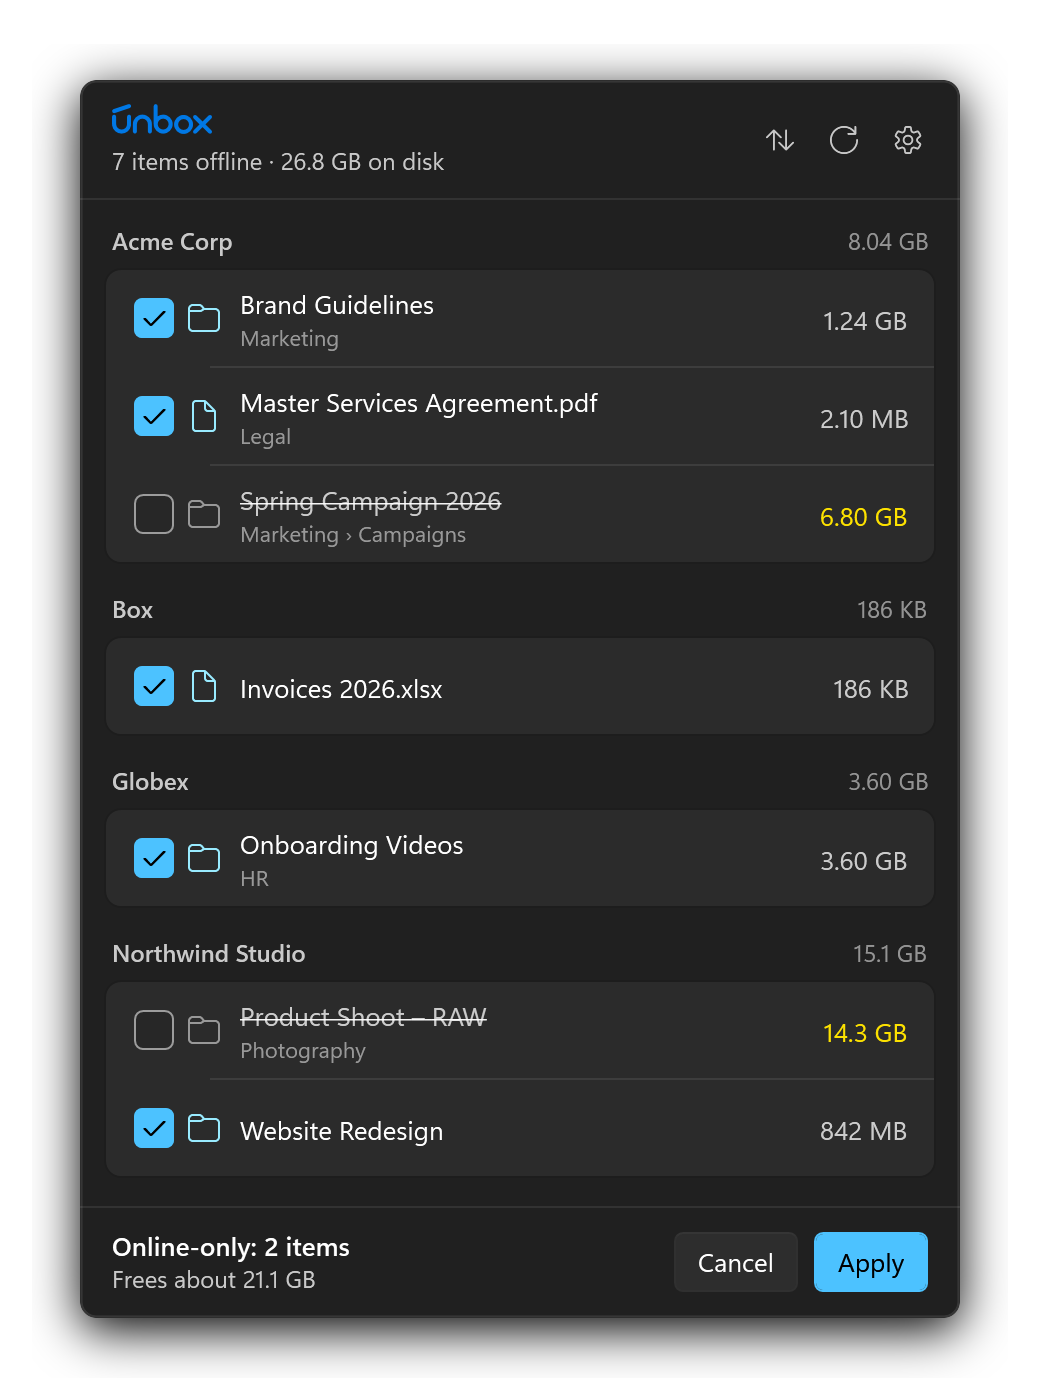
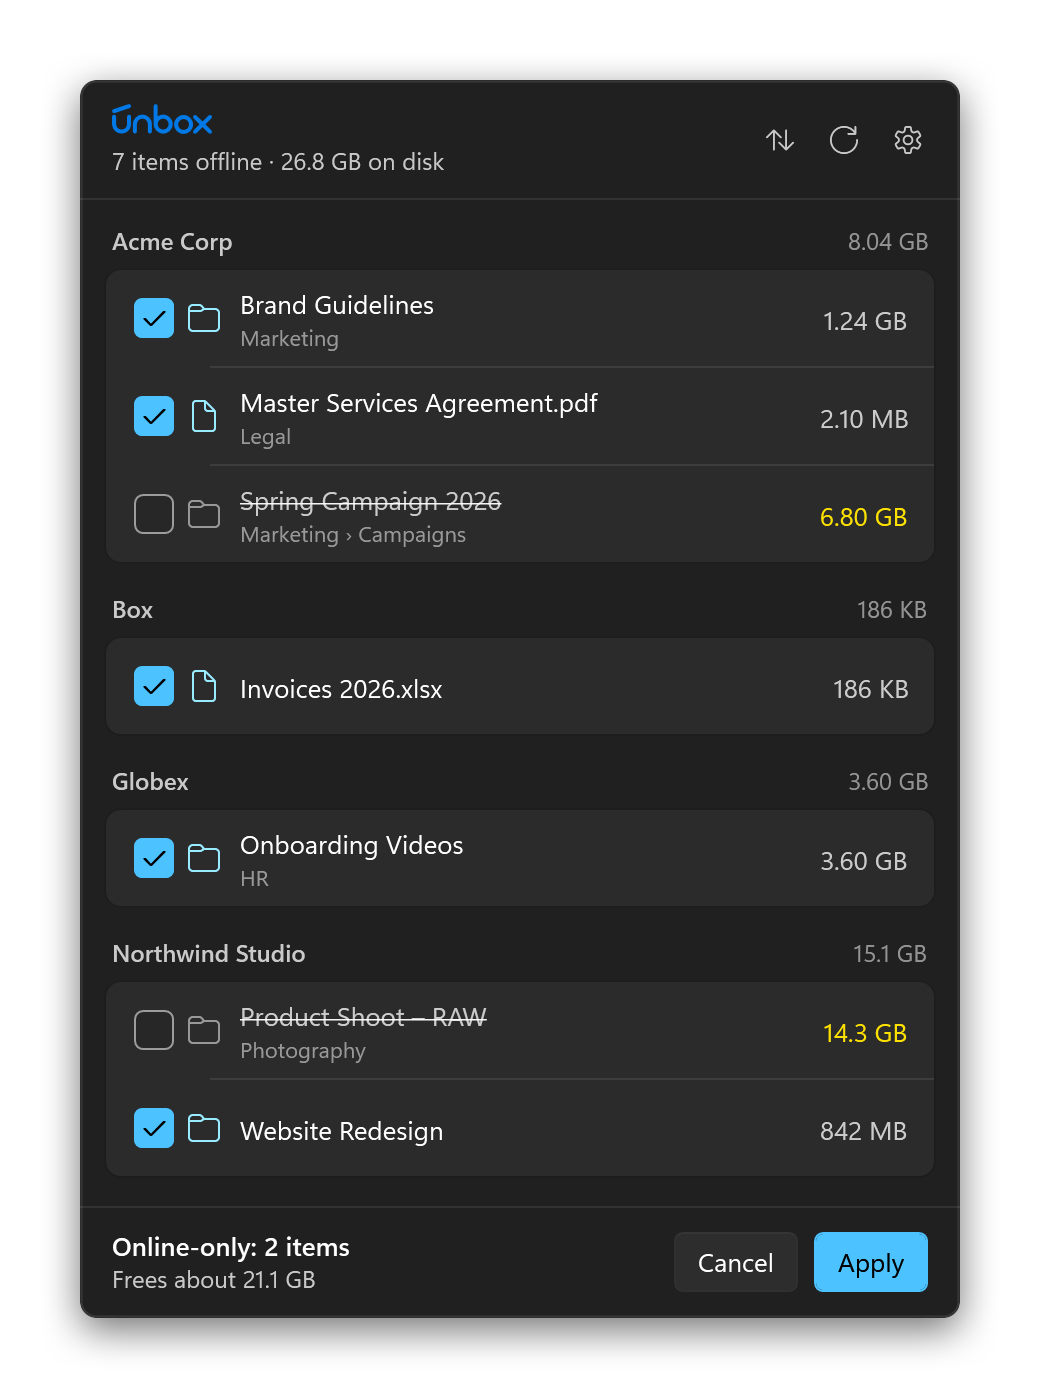
Soft shadow on all screenshots; drop SignPath signing for now
- scripts/screenshot-shadow.swift adds the earlier, soft popover shadow to
  the macOS and Windows screenshots alike.
- The SignPath Foundation integration (workflow steps, .signpath/, the code
  signing policy in the README) is removed until signing is revisited; it can
  be restored from commit c201943.

Changed region(s): [[0.0308, 0.0615, 0.9538, 0.9843], [0.0923, 0.0308, 0.9231, 0.0615]]

diff --git a/scripts/screenshot-shadow.swift b/scripts/screenshot-shadow.swift
@@ -1,0 +1,38 @@
+// Adds a soft popover-like shadow and a 40 pt margin to 2x screenshots with transparency, in place.
+// Used by scripts/screenshots.sh for both the macOS and the Windows images, so they match side by side.
+// Files whose name ends in -dark.png get a stronger shadow, as on a dark background.
+import AppKit
+
+let scale: CGFloat = 2
+let margin: CGFloat = 40
+
+for path in CommandLine.arguments.dropFirst() {
+    let url = URL(fileURLWithPath: path)
+    guard let data = try? Data(contentsOf: url), let source = NSBitmapImageRep(data: data) else {
+        FileHandle.standardError.write(Data("cannot read \(path)\n".utf8))
+        exit(1)
+    }
+    let size = NSSize(width: CGFloat(source.pixelsWide) / scale, height: CGFloat(source.pixelsHigh) / scale)
+    let canvas = NSSize(width: size.width + margin * 2, height: size.height + margin * 2)
+    guard let rep = NSBitmapImageRep(bitmapDataPlanes: nil, pixelsWide: Int(canvas.width * scale), pixelsHigh: Int(canvas.height * scale),
+                                     bitsPerSample: 8, samplesPerPixel: 4, hasAlpha: true, isPlanar: false,
+                                     colorSpaceName: .deviceRGB, bytesPerRow: 0, bitsPerPixel: 0) else { exit(1) }
+    rep.size = canvas
+
+    NSGraphicsContext.saveGraphicsState()
+    NSGraphicsContext.current = NSGraphicsContext(bitmapImageRep: rep)
+    let shadow = NSShadow()
+    shadow.shadowBlurRadius = 20
+    shadow.shadowOffset = NSSize(width: 0, height: -6)
+    shadow.shadowColor = NSColor.black.withAlphaComponent(url.lastPathComponent.hasSuffix("-dark.png") ? 0.55 : 0.22)
+    shadow.set()
+    source.draw(in: NSRect(origin: NSPoint(x: margin, y: margin), size: size), from: .zero, operation: .sourceOver,
+                fraction: 1, respectFlipped: false, hints: nil)
+    NSGraphicsContext.restoreGraphicsState()
+
+    guard let png = rep.representation(using: .png, properties: [:]), (try? png.write(to: url)) != nil else {
+        FileHandle.standardError.write(Data("cannot write \(path)\n".utf8))
+        exit(1)
+    }
+    print(path)
+}

diff --git a/scripts/release.py b/scripts/release.py
@@ -33,8 +33,7 @@ RELEASE_FOOTER = f"""
 ---
 
 Check the downloads against `SHA256SUMS` · [Install on macOS](https://github.com/{REPOSITORY}#install-on-macos) · \
-[Install on Windows](https://github.com/{REPOSITORY}#install-on-windows) · \
-[Code signing policy](https://github.com/{REPOSITORY}#code-signing-policy)
+[Install on Windows](https://github.com/{REPOSITORY}#install-on-windows)
 """
 
 
@@ -176,7 +175,7 @@ def main():
         tag = f"v{args.version}"
         run("git", "tag", "-a", tag, "-m", f"unbox {args.version}")
         run("git", "push", "origin", tag)
-        # The release page also names the checksums and the code signing policy (a SignPath requirement).
+        # The release page also points to the checksums and the installation steps.
         page_notes = DIST / "release-notes.md"
         page_notes.write_text(notes_file.read_text(encoding="utf-8").rstrip() + RELEASE_FOOTER, encoding="utf-8")
         run("gh", "release", "create", tag, archive, feed, DIST / "SHA256SUMS", "--repo", REPOSITORY,

diff --git a/README.md b/README.md
@@ -79,8 +79,8 @@ Windows (x64 and Arm)
    To verify the download, compare the output of `Get-FileHash .\unbox-win-x64-Setup.exe` in PowerShell
    with its line in `SHA256SUMS`.
 2. Run it. unbox installs for your user only, without administrator rights, and starts right away.
-   Until code signing is in place (see the [code signing policy](#code-signing-policy)), Microsoft Defender
-   SmartScreen may show *Windows protected your PC* – click **More info → Run anyway**.
+   The installer is **not code-signed**, so Microsoft Defender SmartScreen may show *Windows protected your
+   PC* – click **More info → Run anyway**.
 3. Windows hides new notification area icons in the overflow menu (the **^** next to the clock). Drag the
    unbox icon onto the taskbar, or turn it on in **Settings → Personalization → Taskbar → Other system tray
    icons**. Starting unbox again from the Start menu also opens its panel.
@@ -176,31 +176,6 @@ No analytics, no accounts.
 
 unbox is an independent project and is not affiliated with or endorsed by Box, Inc.
 Box and Box Drive are trademarks of Box, Inc.
-
-## Code signing policy
-
-Free code signing provided by [SignPath.io](https://about.signpath.io), certificate by
-[SignPath Foundation](https://signpath.org).
-
-> [!NOTE]
-> Signing through the SignPath Foundation program is being set up. Until unbox is approved, the Windows
-> downloads are not signed.
-
-- **Windows:** unbox's own program files (`unbox.exe`, `unbox.dll`, `UnboxKit.dll`) and the installers
-  (`unbox-win-*-Setup.exe`) are signed. They are built from this repository by
-  [GitHub Actions](.github/workflows/windows.yml), and each release is approved by hand before it is signed
-  ([signing configuration](.signpath/)). Components from other projects are included as published by their
-  authors: the .NET runtime (signed by Microsoft) and Velopack's `Update.exe`.
-- **macOS:** the app is ad-hoc signed and not notarized. Updates are accepted only with a valid EdDSA signature
-  from this project's key (Sparkle).
-
-Team roles:
-
-- Committers and reviewers: [emiterkamieni](https://github.com/emiterkamieni)
-- Approvers: [emiterkamieni](https://github.com/emiterkamieni)
-
-Privacy policy: unbox does not collect or transfer any personal data; see [Privacy](#privacy) for the update
-checks, the only network requests it makes.
 
 ## Building from source
 

diff --git a/README.pl.md b/README.pl.md
@@ -61,9 +61,9 @@ Wymagania: Windows 10 22H2 lub Windows 11 (x64 albo Arm), nowy Box Drive dla Win
 
 1. Pobierz `unbox-win-x64-Setup.exe` (większość komputerów) albo `unbox-win-arm64-Setup.exe` (komputery z
    procesorem Arm) z [najnowszego wydania](https://github.com/emiterkamieni/unbox/releases/latest).
-2. Uruchom instalator. unbox instaluje się tylko dla Ciebie, bez uprawnień administratora. Dopóki nie ruszy
-   podpisywanie kodu (zob. [Code signing policy](README.md#code-signing-policy)), SmartScreen może pokazać
-   *System Windows ochronił ten komputer* – kliknij **Więcej informacji → Uruchom mimo to**.
+2. Uruchom instalator. unbox instaluje się tylko dla Ciebie, bez uprawnień administratora. Instalator nie jest
+   podpisany, więc SmartScreen może pokazać *System Windows ochronił ten komputer* – kliknij
+   **Więcej informacji → Uruchom mimo to**.
 3. Windows chowa nowe ikony w zasobniku pod strzałką **^** obok zegara. Przeciągnij ikonę unbox na pasek
    zadań albo włącz ją w **Ustawienia → Personalizacja → Pasek zadań → Inne ikony zasobnika systemowego**.
 
